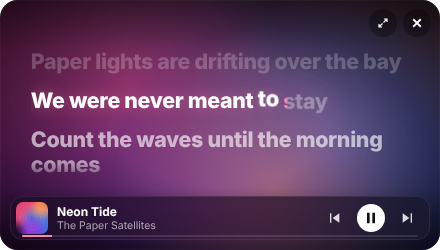
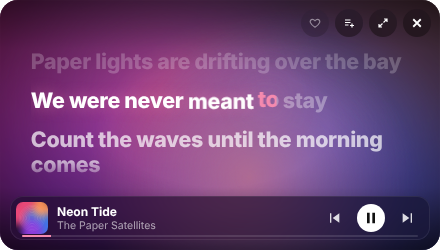
Docs for 1.1.0: Gramophone, new Poster and Pop, full-screen Speaker, Favourite, Add to playlist, Karaoke
Update the README features, shortcuts and FAQ, add the 1.1.0 changelog,
and replace the screenshots and demo (Warp is now Gramophone).

Claude-Session: https://claude.ai/code/session_01TJeovi2of2MQ7g6etwkNeu

diff --git a/README.md b/README.md
@@ -13,7 +13,7 @@ Free for personal use.
 [![Apple Music](https://img.shields.io/badge/Apple%20Music-synced%20lyrics-fa2d48?logo=applemusic&logoColor=white)](#lyrics)
 [![Latest release](https://img.shields.io/github/v/release/imayanjain/glowlyrics?color=3c78e6)](https://github.com/imayanjain/glowlyrics/releases/latest)
 
-<img src="docs/demo.gif" alt="Glowlyrics immersive mode cycling through the Flow, Pop, Speaker, Poster and Warp lyric styles" width="720">
+<img src="docs/demo.gif" alt="Glowlyrics immersive mode cycling through the Flow, Pop, Speaker, Poster and Gramophone lyric styles" width="720">
 
 [Install](#install) · [Features](#features) · [Shortcuts](#shortcuts) · [FAQ](#faq-and-troubleshooting) · [Releases](https://github.com/imayanjain/glowlyrics/releases)
 
@@ -21,9 +21,10 @@ Free for personal use.
 
 | | |
 |---|---|
-| ![Flow style](docs/full-flow.png) | ![Speaker style](docs/full-speaker.png) |
-| ![Warp style](docs/full-warp.png) | ![Poster style](docs/full-poster.png) |
-| ![StandBy view](docs/standby-pop.png) | ![Mini player](docs/mini-flow.png) |
+| ![Flow style](docs/full-flow.png) | ![Poster style](docs/full-poster.png) |
+| ![Gramophone style: drag the record onto the player](docs/full-gramophone-setup.png) | ![Gramophone style playing](docs/full-gramophone.png) |
+| ![Pop style](docs/full-pop.png) | ![Speaker style](docs/full-speaker.png) |
+| ![StandBy view](docs/standby-pop.png) | ![Mini player](docs/mini-poster.png) |
 
 *Screenshots and demo use a made-up track and made-up lyrics.*
 
@@ -42,12 +43,12 @@ Free for personal use.
 - Speaker-delay correction for Bluetooth speakers, plus per-song timing nudges that are remembered.
 
 **Immersive mode** (⌘⌥L)
-- Five lyric styles:
+- Five lyric styles (keys `1`–`5`):
   - **Flow**: scrolling lines with a gradient sweep
-  - **Pop**: words bounce in to the beat
-  - **Speaker**: kinetic typography on a frosted panel
-  - **Poster**: big type layouts
-  - **Warp**: a starfield with lines flying in
+  - **Pop**: one word at a time, and each word enters by what it is: short words punch in, line endings drop, held notes stretch for as long as they're sung, and stressed words burst with confetti. The next word waits underneath so a room can sing along.
+  - **Speaker**: kinetic typography on a frosted sheet that fills the whole screen
+  - **Poster**: every line is printed as its own poster, with type fitted to the page, colour fields, a grid and the track credits. Verses print dark, the chorus prints on paper, and instrumentals get their own sheet showing the next line.
+  - **Gramophone**: every song starts with the setup. The player is empty, the arm is parked and the song's record waits beside it: drag it onto the player (or click it), the arm swings over and the needle drops. Then it comes alive: the record breathes with the bass, kicks send shockwaves, the grooves ripple with the mids, highs throw sparks and the singer's voice lights the label. If nobody drags it, the record drops in by itself after a few seconds.
 - Three views:
   - **Full**: fills the screen
   - **Glass**: see-through, so you can still see your windows behind it
@@ -56,12 +57,16 @@ Free for personal use.
 - Seek bar, previous/play/next, volume and boost. The controls hide when you're idle and come back when you move the mouse or scroll.
 - Search your library or the whole Apple Music catalog, and pick a song to play it right away without leaving the view.
 - **Up Next queue**: press ＋ (or Shift+Enter) on any search result to queue it. Queued songs play in order when the current song ends, and Next jumps straight to them. Open search to see, reorder by playing, or remove what's queued.
+- **Favourite** the song that's playing with the ♡ button (or `F`, or ⌘⌥F from anywhere). It's the same Favourite you see in Music.
+- **Add to playlist** with the playlist button (or `P`): pick one of your playlists, search them, or type a name to make a new one. Apple Music songs you're streaming are added to your library first, the same way Music does it.
+- The animations follow the music itself: Glowlyrics splits the sound into bass, mids, highs and voice, and times them to your speaker.
 - It doesn't take keyboard focus, so typing in other apps never pauses your music.
 
 **Sound**
 - Speaker fallback: if your Bluetooth speaker disconnects while a Multi-Output Device is selected (where macOS would leave you with silence), Glowlyrics switches to the MacBook speakers and mic, then back to your setup when the speaker reconnects.
 - Pause for voice and calls: when Siri, a voice assistant, dictation or a call starts using the mic, the music pauses. When the mic closes, it picks up where it left off.
 - A volume booster (+3, +6, +9 or +12 dB) for everything your Mac plays, with a limiter so loud parts don't clip.
+- **Karaoke** (the mic chip in immersive, `K`, or ⌘⌥K): turns the singer down live so you can sing over the song. Choose **Light** (the singer stays as a quiet guide), **Medium** or **Strong**. Only the voice's range is touched, and the level is given back so the band stays loud. It works best on songs where the lead vocal is in the middle of the mix; reverb and backing vocals stay. Needs BlackHole, like Boost.
 
 **Settings** (⌘⌥P)
 - One panel for all of the above.
@@ -72,7 +77,7 @@ Free for personal use.
 - Apple Music, the Music app. Playing catalog songs needs an Apple Music subscription.
 - [Homebrew](https://brew.sh)
 - Python 3. Glowlyrics uses whichever install already has its packages: Homebrew, python.org or the system `/usr/bin/python3`.
-- Optional: an external display, a Bluetooth speaker and BlackHole (for beat sync and boost). Everything else works without them.
+- Optional: an external display, a Bluetooth speaker and BlackHole (for beat sync, the music-reactive animations, Boost and Karaoke). Everything else works without them.
 
 ## Install
 
@@ -100,10 +105,12 @@ If BlackHole was just installed, restart your Mac once first. Without these step
 | ⌘⌥L | Open or close immersive mode |
 | ⌘⌥M | Mini player: open it, or slide between Mini and full screen |
 | ⌘⌥P | Settings |
+| ⌘⌥F | Favourite the song that's playing |
+| ⌘⌥K | Karaoke on / off |
 | ⌘⌥[  /  ⌘⌥] | Lyrics earlier / later (saved per song) |
 | ⌘⌥↑  /  ⌘⌥↓ | Volume |
 
-Inside immersive mode (click it first): Space play/pause, ← → seek, ↑ ↓ volume, `1`–`5` style, `V` view, `/` search, Esc close.
+Inside immersive mode (click it first): Space play/pause, ← → seek, ↑ ↓ volume, `1`–`5` style (Flow, Pop, Speaker, Poster, Gramophone), `V` view, `/` search, `F` favourite, `P` add to playlist, `K` karaoke, Esc close.
 
 In search: Enter plays now, Shift+Enter adds to Up Next, ↑ ↓ move through results.
 
@@ -121,7 +128,13 @@ Logs go to `hammerspoon.log` and `engine.log` in your Glowlyrics folder (menu ba
 
 **The glow doesn't pulse with the beat.** Beat sync needs BlackHole and a Multi-Output Device (step 4 of the setup). Without them the glow still follows the album colors.
 
-**Boost says it needs BlackHole.** Same fix: install BlackHole and restart your Mac once.
+**Boost or Karaoke says it needs BlackHole.** Same fix: install BlackHole and restart your Mac once.
+
+**The animations look flat (the Gramophone record doesn't move, Pop doesn't shake).** They react to the sound going through BlackHole. Choose **Multi-Output Device** as your Sound output, or turn on Karaoke or Boost, which route the sound through it for you.
+
+**Karaoke still lets me hear the singer.** Try **Strong**. Glowlyrics removes what sits in the centre of the mix in the voice's range, live, without an AI model, so reverb, backing vocals and voices recorded in stereo stay audible. If the song sounds thin, go back to **Light**.
+
+**Add to playlist says it couldn't add the song.** The reason is in `hammerspoon.log`. Streaming songs are added to your library first; if your library doesn't sync (Sync Library is off in Music's settings), Music can't do that.
 
 **Does it work with Spotify?** Not yet. It works with Apple Music. If you'd like Spotify support, say so in [Discussions](https://github.com/imayanjain/glowlyrics/discussions).
 
@@ -131,7 +144,7 @@ Logs go to `hammerspoon.log` and `engine.log` in your Glowlyrics folder (menu ba
 
 ## Privacy
 
-Glowlyrics runs entirely on your Mac. It sends the song title and artist to lrclib.net to fetch lyrics, and your search text to Apple's iTunes Search API when you search the catalog. Nothing else leaves your Mac, and there's no tracking or analytics.
+Glowlyrics runs entirely on your Mac, including Karaoke and the music analysis behind the animations. It sends the song title and artist to lrclib.net to fetch lyrics, and your search text to Apple's iTunes Search API when you search the catalog. Nothing else leaves your Mac, and there's no tracking or analytics.
 
 ## Uninstall
 

diff --git a/CHANGELOG.md b/CHANGELOG.md
@@ -1,5 +1,16 @@
 # Changelog
 
+## 1.1.0 (2026-11-05)
+
+- New **Gramophone** style (replaces Warp): every song starts with dragging the record onto the player, then the record, shockwaves, grooves and sparks react to the music
+- New **Poster** style: each line printed as its own poster, with fitted type, colour fields and credits; the chorus prints on paper
+- **Pop** redesigned: each word enters by what it is (punch, drop, stretch on held notes, burst on stressed words) and the next word is shown to sing along
+- **Speaker** now fills the whole screen
+- Animations react to bass, mids, highs and voice, timed to your speaker
+- **Favourite** the playing song from immersive mode (♡, `F`, ⌘⌥F)
+- **Add to playlist** from immersive mode (`P`), including new playlists; streaming songs are added to your library first
+- **Karaoke**: turn the singer down live with Light, Medium and Strong levels (`K`, ⌘⌥K)
+
 ## 1.0.0 (2026-10-31)
 
 First public release.
